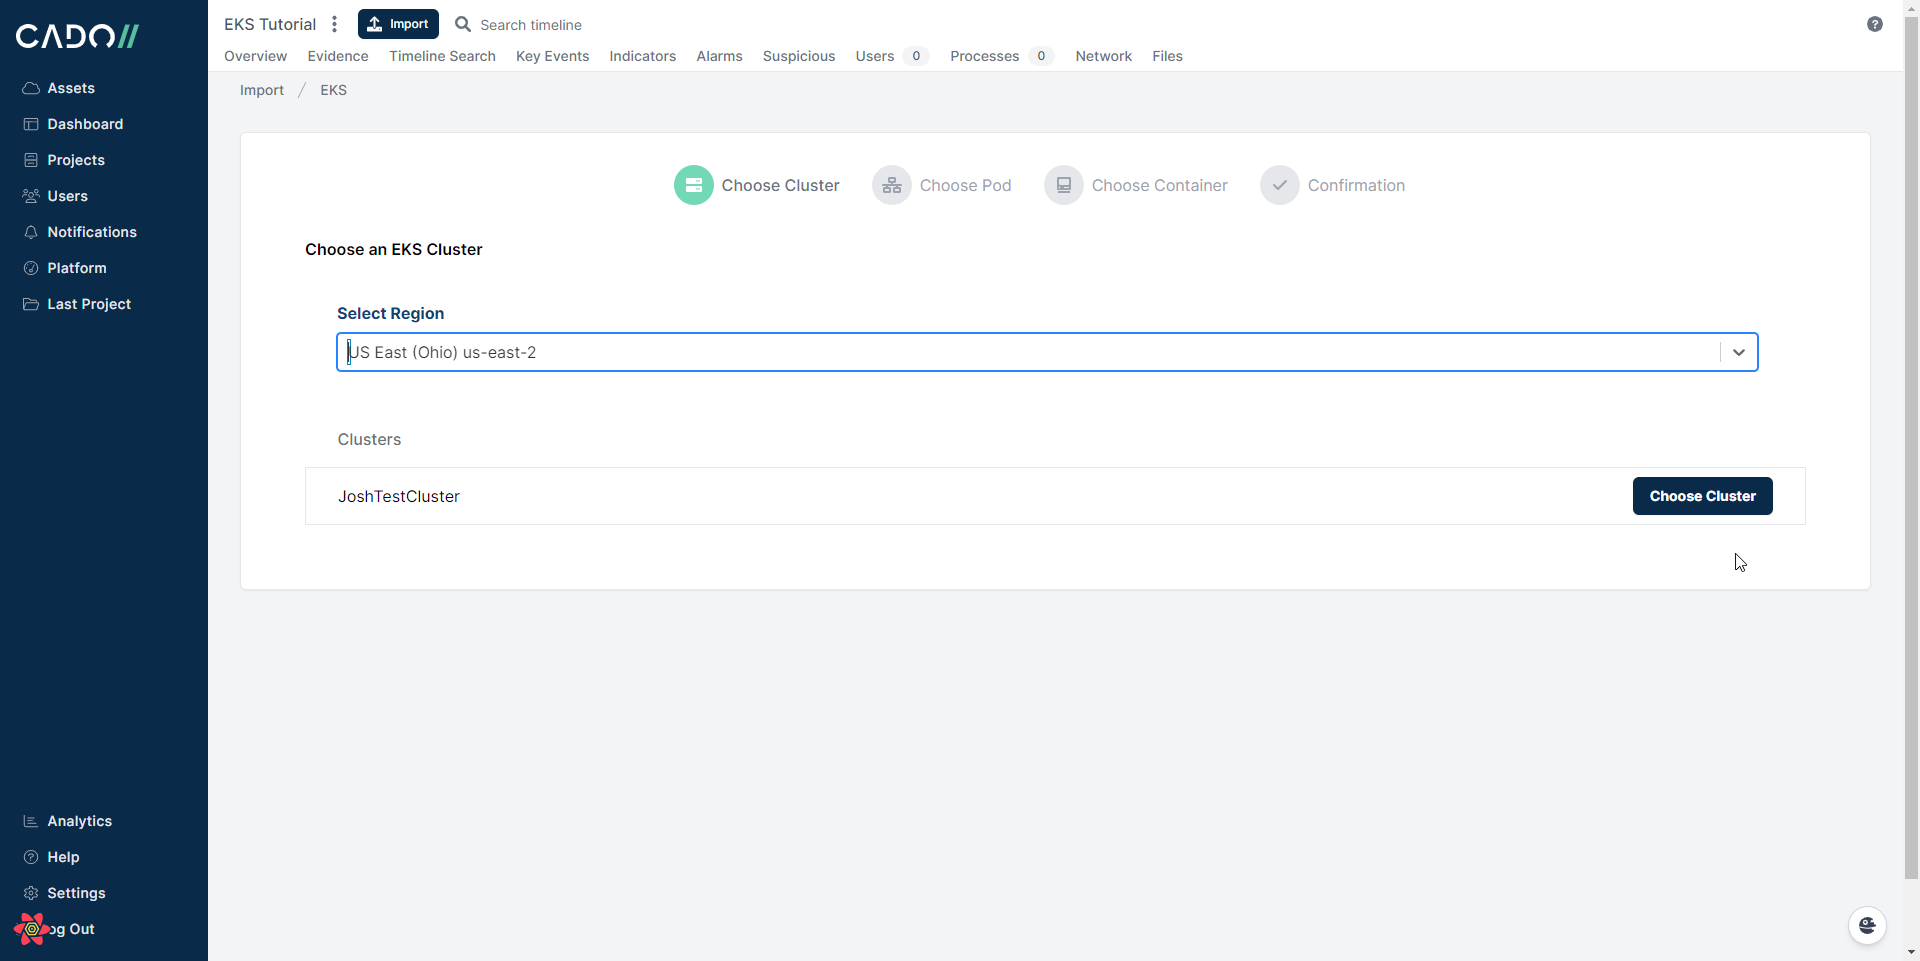
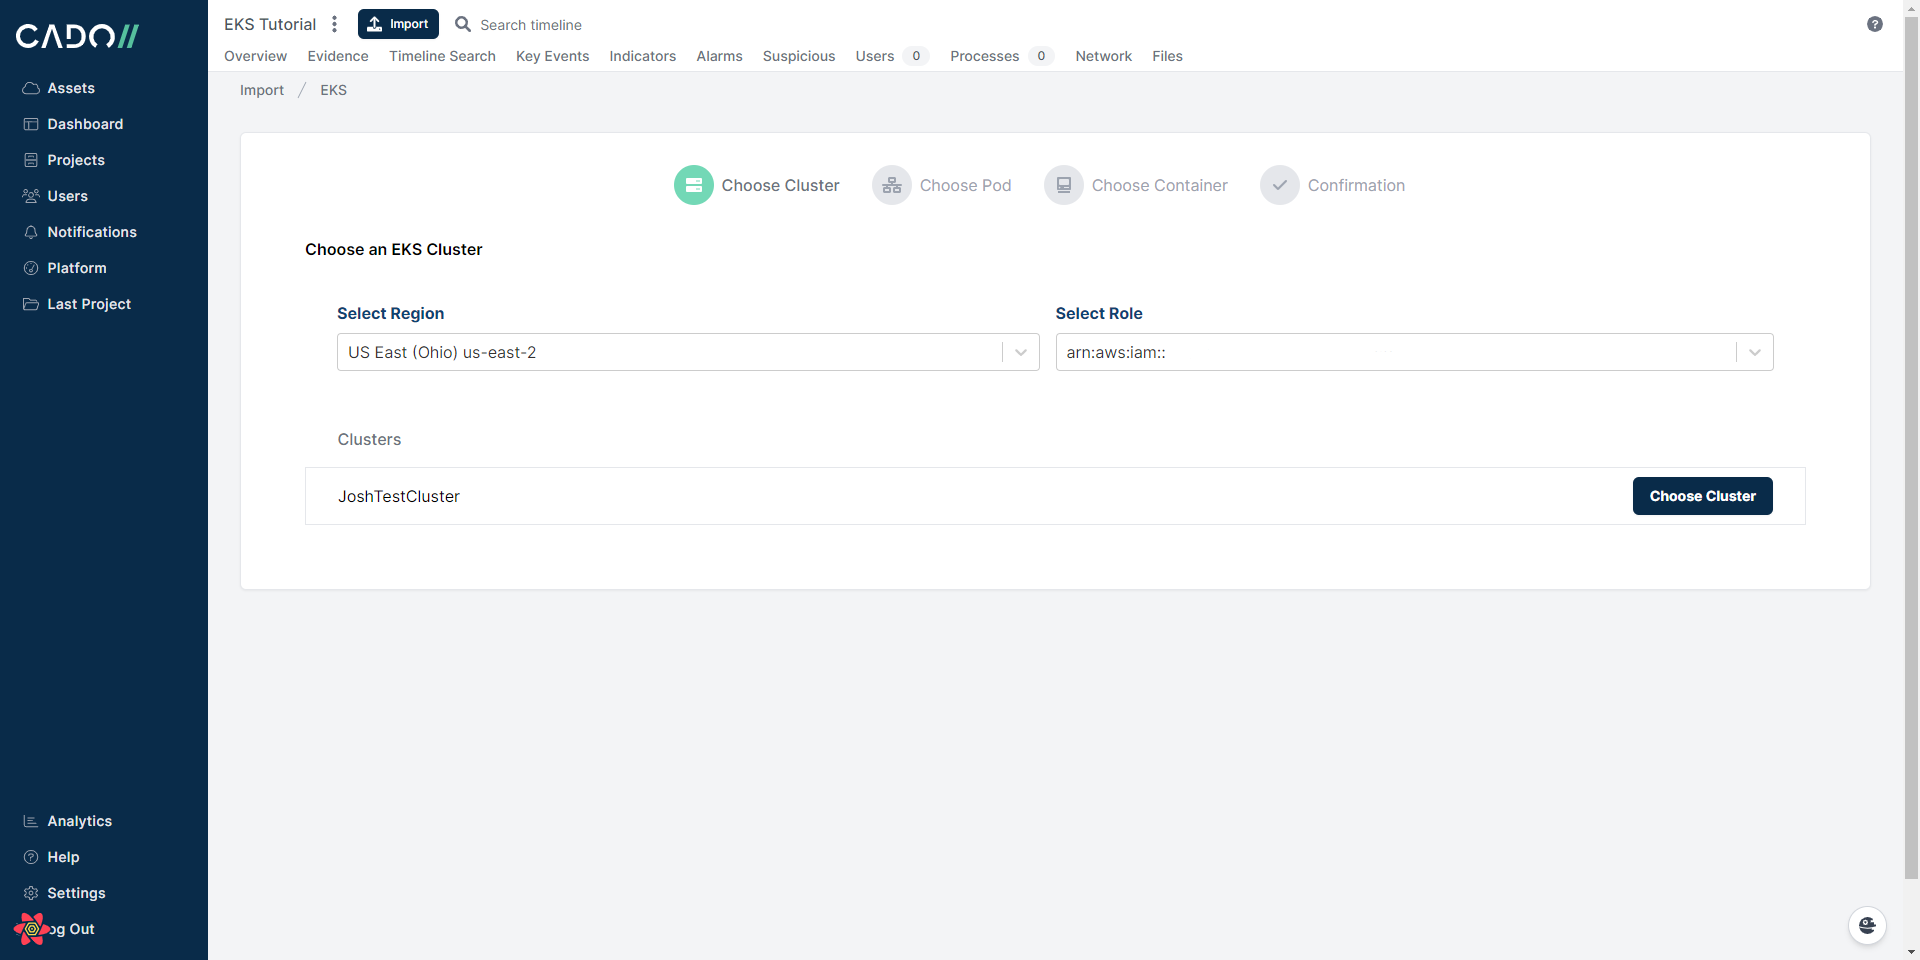
Make clearer docs

diff --git a/docs/cado-response/importing-data/aws-eks.md b/docs/cado-response/importing-data/aws-eks.md
@@ -8,24 +8,30 @@ sidebar_position: 5
 
 Cado Response will collect key logs and forensic artifacts from AWS EKS containers.
 
-## EKS Import Requirements
-
-### RBAC Configuration
-You'll need to add your Cado Response IAM role from `Settings > Cloud > AWS` to your EKS RBAC configuration. Without 
+## EKS RBAC Configuration
+You'll need to add the appropriate configued Cado Response IAM role to your EKS RBAC configuration. Without 
 this you will see an error message saying that `This role is not configured to authorize with this EKS cluster`.
 
-See [the following AWS guide](https://aws.amazon.com/premiumsupport/knowledge-center/eks-api-server-unauthorized-error/)
-on how to add your role to the EKS RBAC, or if you have eksctl configured, you can use the following command:
-
-`eksctl create iamidentitymapping --cluster=<cluster_name> --region=<region> --arn <iam_role> --group system:masters`
-
-### IAM Permissions
-You'll also make sure the following IAM permissions are attached to your IAM role:
+The IAM role should contain the following permissions to interface with your cluster:
 ```
 	"eks:ListClusters",
 	"eks:DescribeCluster",
 	"eks:UpdateClusterConfig"
 ````
+
+See [the following AWS guide](https://aws.amazon.com/premiumsupport/knowledge-center/eks-api-server-unauthorized-error/)
+on how to add the role to the EKS RBAC, or if you have eksctl configured, you can use the following command:
+
+`eksctl create iamidentitymapping --cluster=<cluster_name> --region=<region> --arn <iam_role> --group system:masters`
+
+### Which IAM role should I use?
+Depending on where your EKS cluster is deployed, you'll need to choose a different IAM role to configure with the RBAC configuration.
+
+#### The cluster resides in the same account as Cado Response:
+For a single account import you should  choose the configured role inside `Settings > Cloud > AWS`.
+
+#### The cluster is deployed in a seperate account from Cado Response:
+For a cross account import you should choose the role created in [AWS Cross Account Creation](/cado-response/guides/cross-account-creation).
 
 ## Import Steps
 
@@ -38,6 +44,10 @@ Please note that communication with EKS can upwards to 30 seconds or more.
 ![Cado Response Import Screen showing the AWS EKS options](/img/eks1.png)
 
 2) Go through the steps to choose your **Cluster**, **Pod** and **Container**:
+
+:::tip
+When selecting the role in the UI, select the role configured for the account where your EKS cluster resides
+:::
 
 ![Cado Response Import Screen showing the available AWS EKS Clusters](/img/eks2.png)
 
